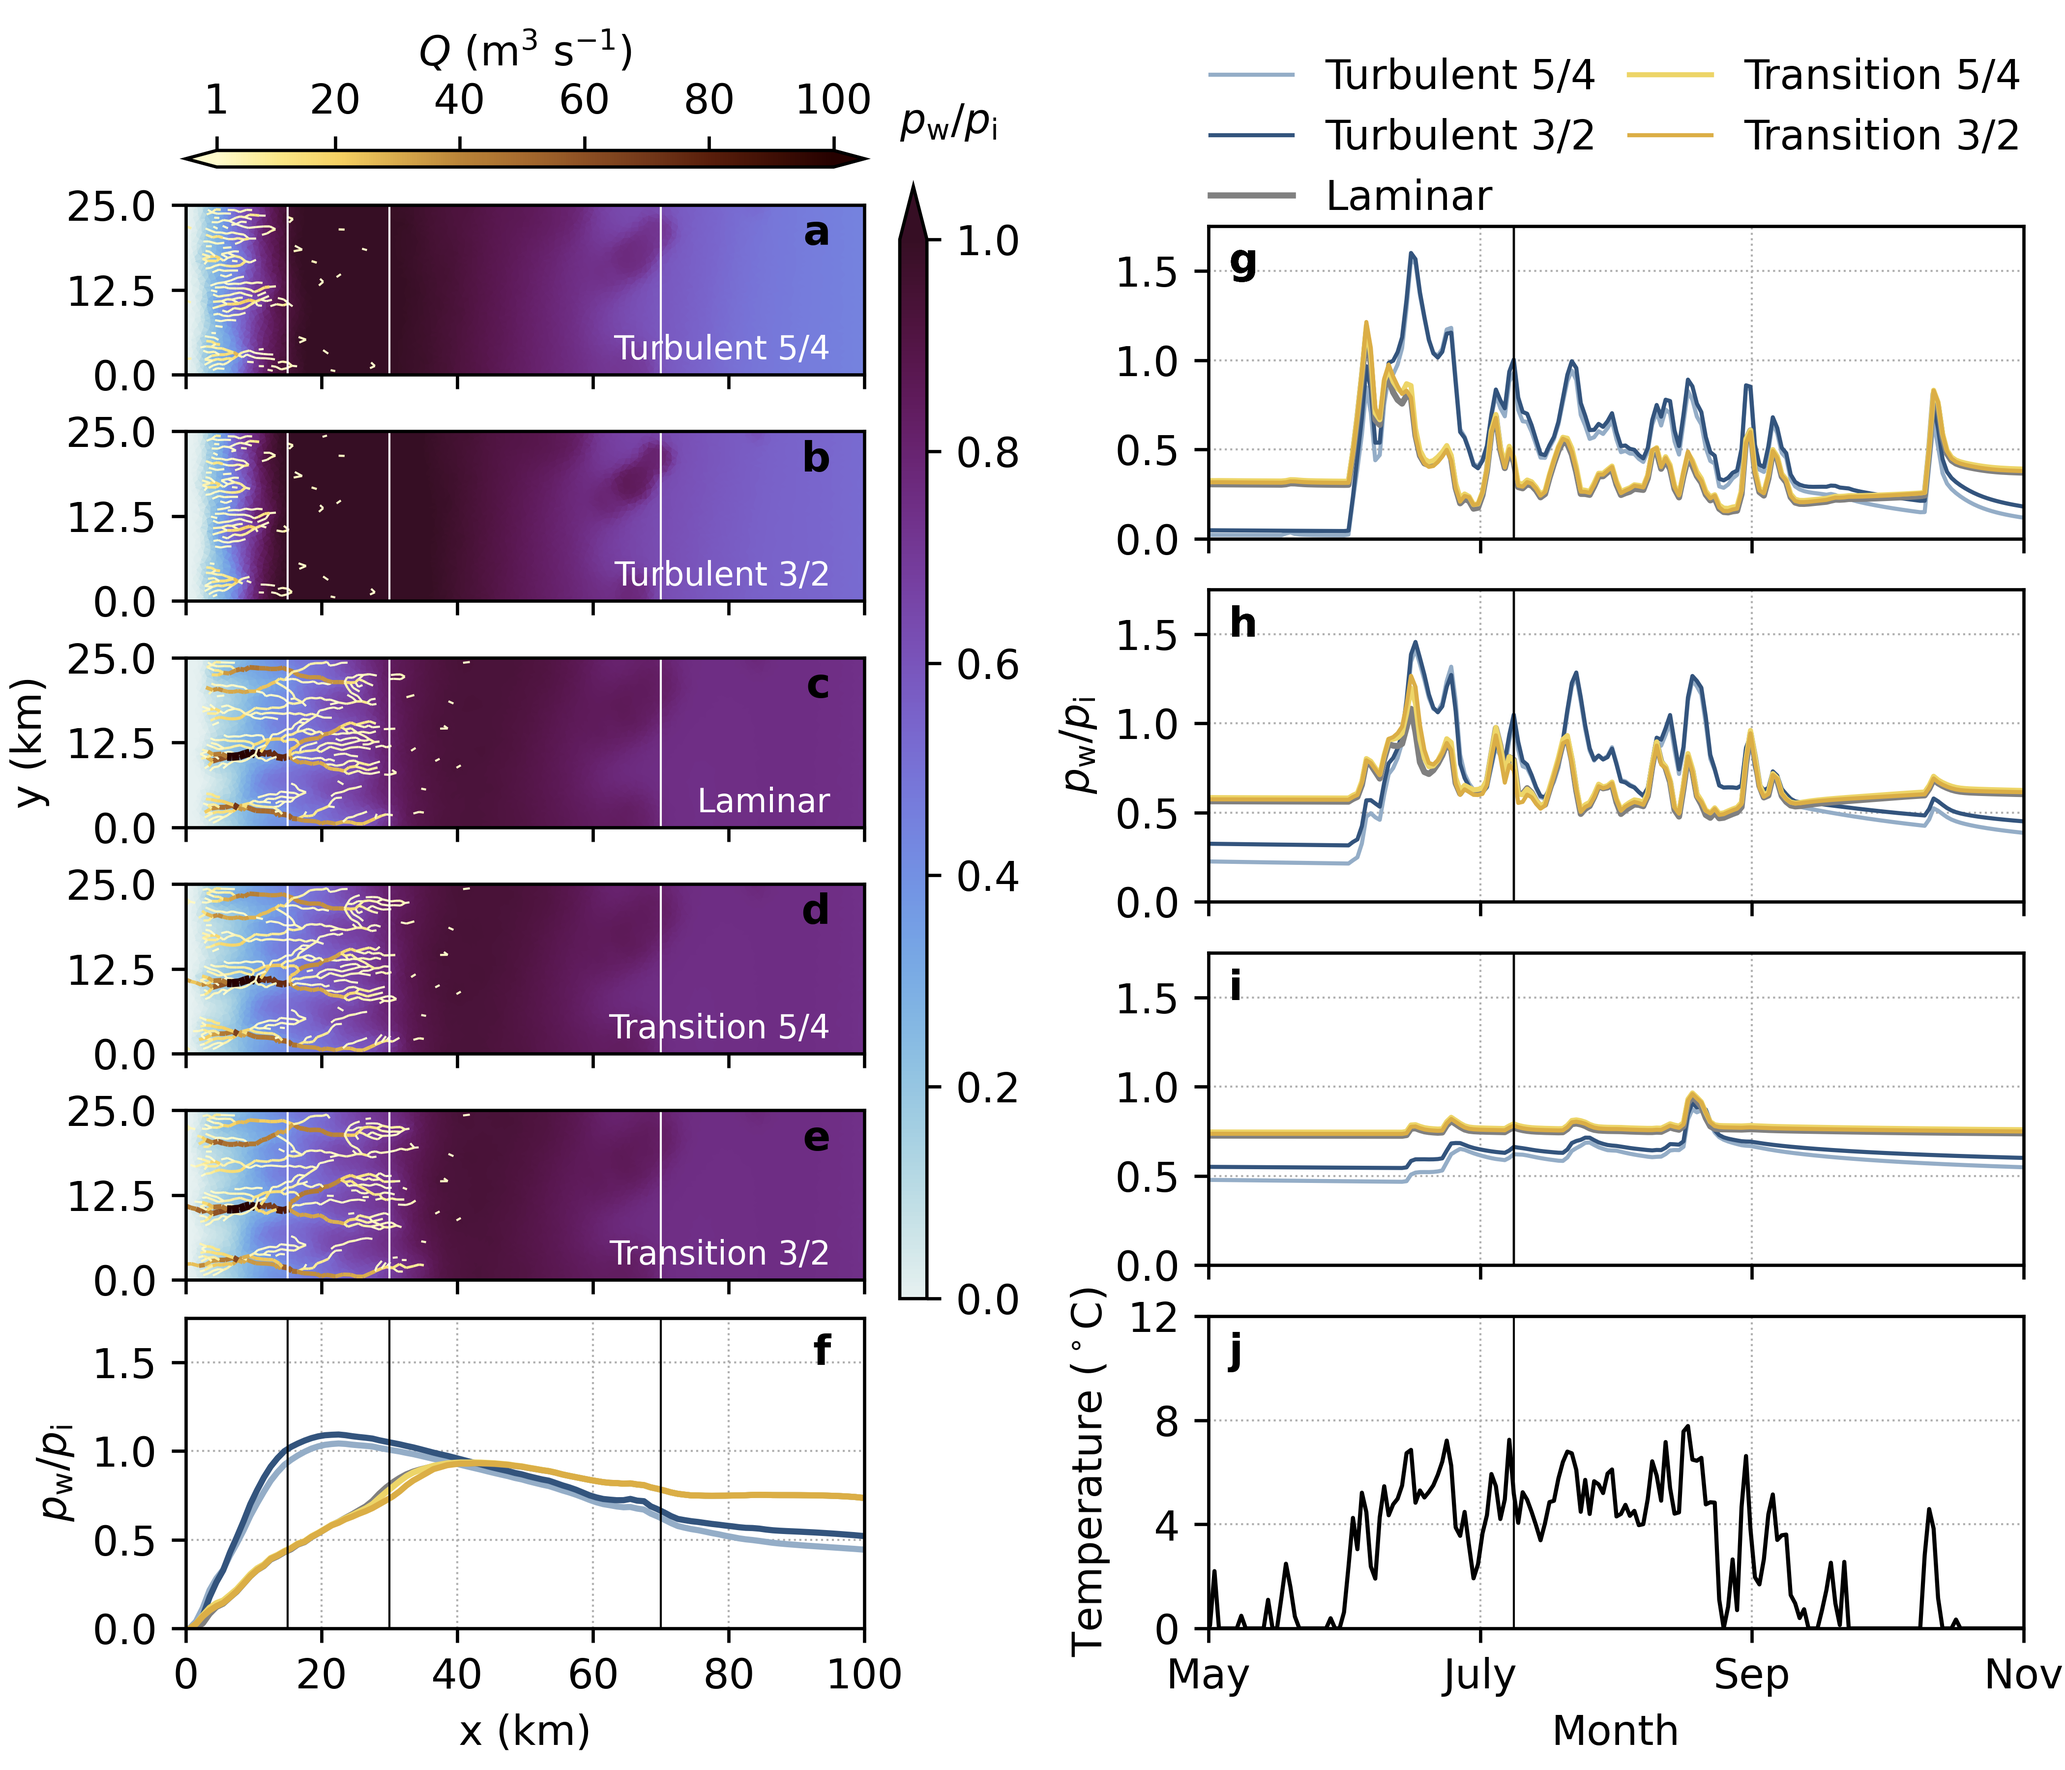
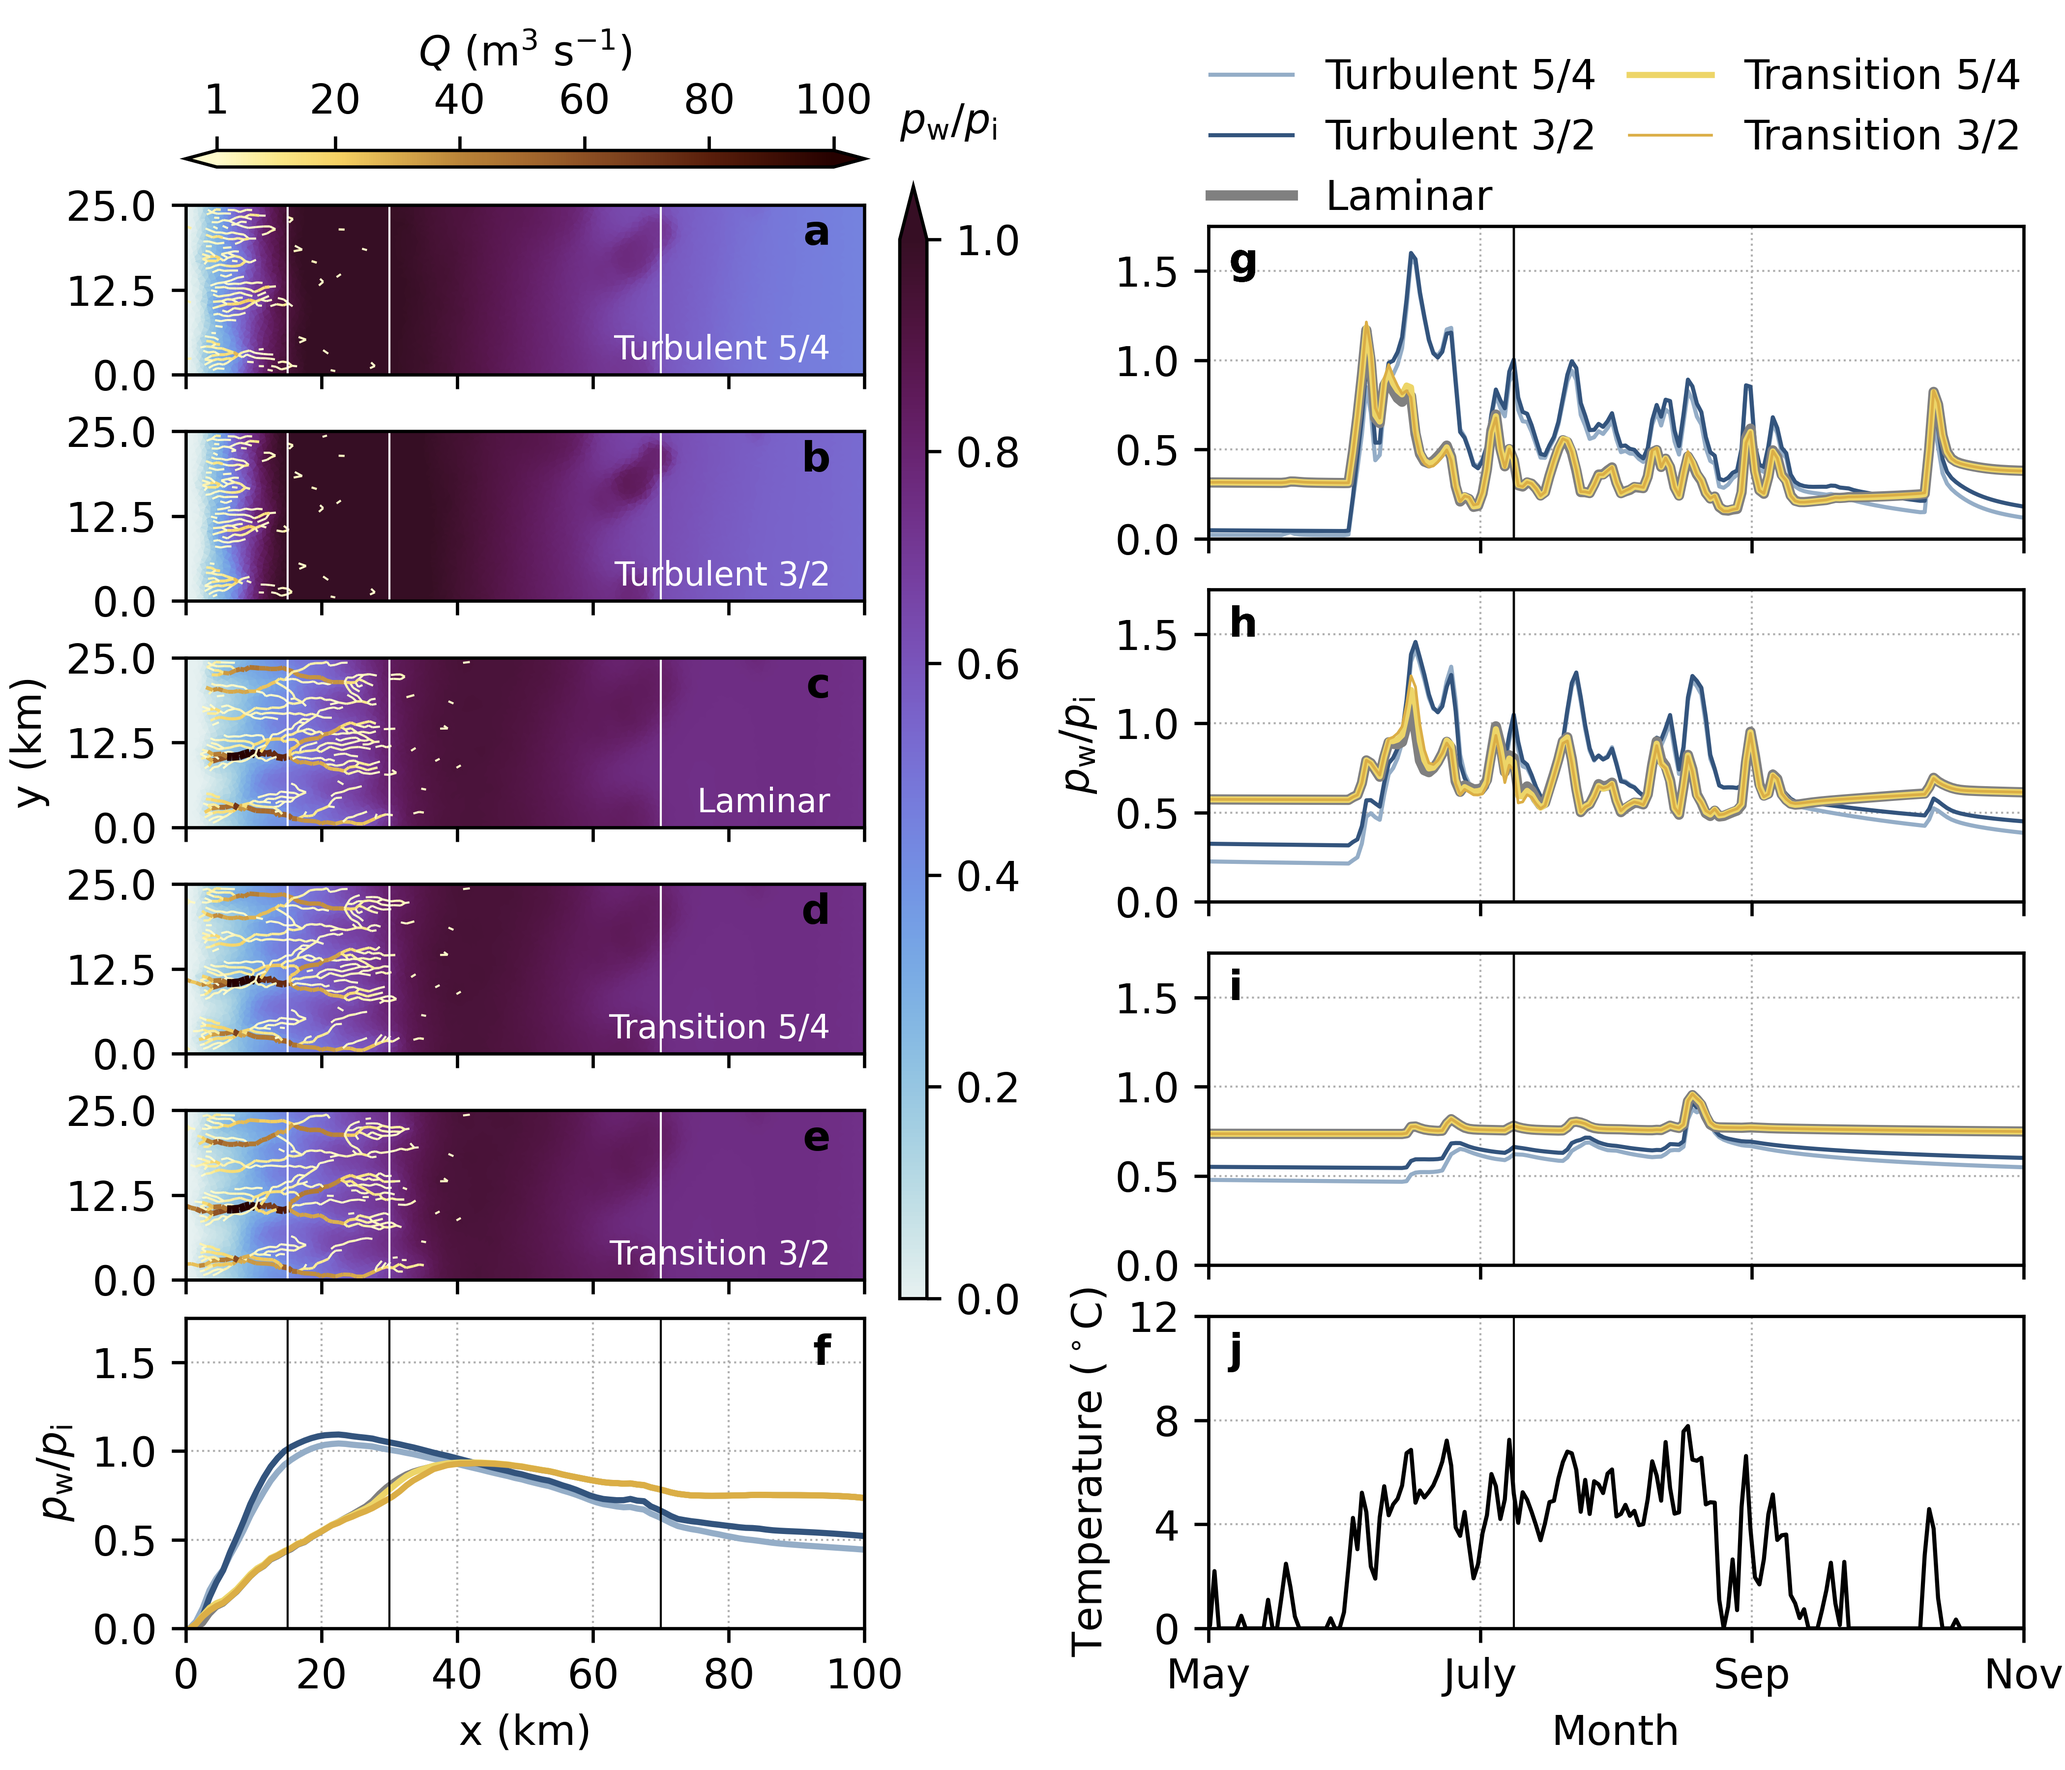
figure linewidths

diff --git a/analysis/plot_pressure_maps_separate_timeseries.py b/analysis/plot_pressure_maps_separate_timeseries.py
@@ -152,8 +152,8 @@ def plot_pressure_maps_timeseries(fnames, figname, tslice=defaults.tslice,
     time_alphabet = ['g', 'h', 'i', 'j']
     map_alphabet = ['a', 'b', 'c', 'd', 'e', 'f']
     text_args = {'fontweight':'bold'}
-    lws = [1, 1, 1.5, 1.25, 1]
-    jitter = [0, 0, -1e-2, 1e-2, 0]
+    lws = [1, 1, 2.5, 1.5, 2/3]
+    jitter = [0, 0, 0, 0, 0]
 
     # Start reading the data
     for ii in range(n_cases):
@@ -336,3 +336,5 @@ if __name__=='__main__':
     fig_01 = plot_pressure_maps_timeseries(fnames, figname, Qmin=1, Qmax=100, melt_forcing='KAN',
         t_ticklabels=t_ticklabels, t_xlabel=t_xlabel, t_ticks=t_ticks, t_lim=t_lim,
         ff_ylim=[0, 1.75], ff_yticks=[0, 0.5, 1, 1.5])
+
+    plt.show()
